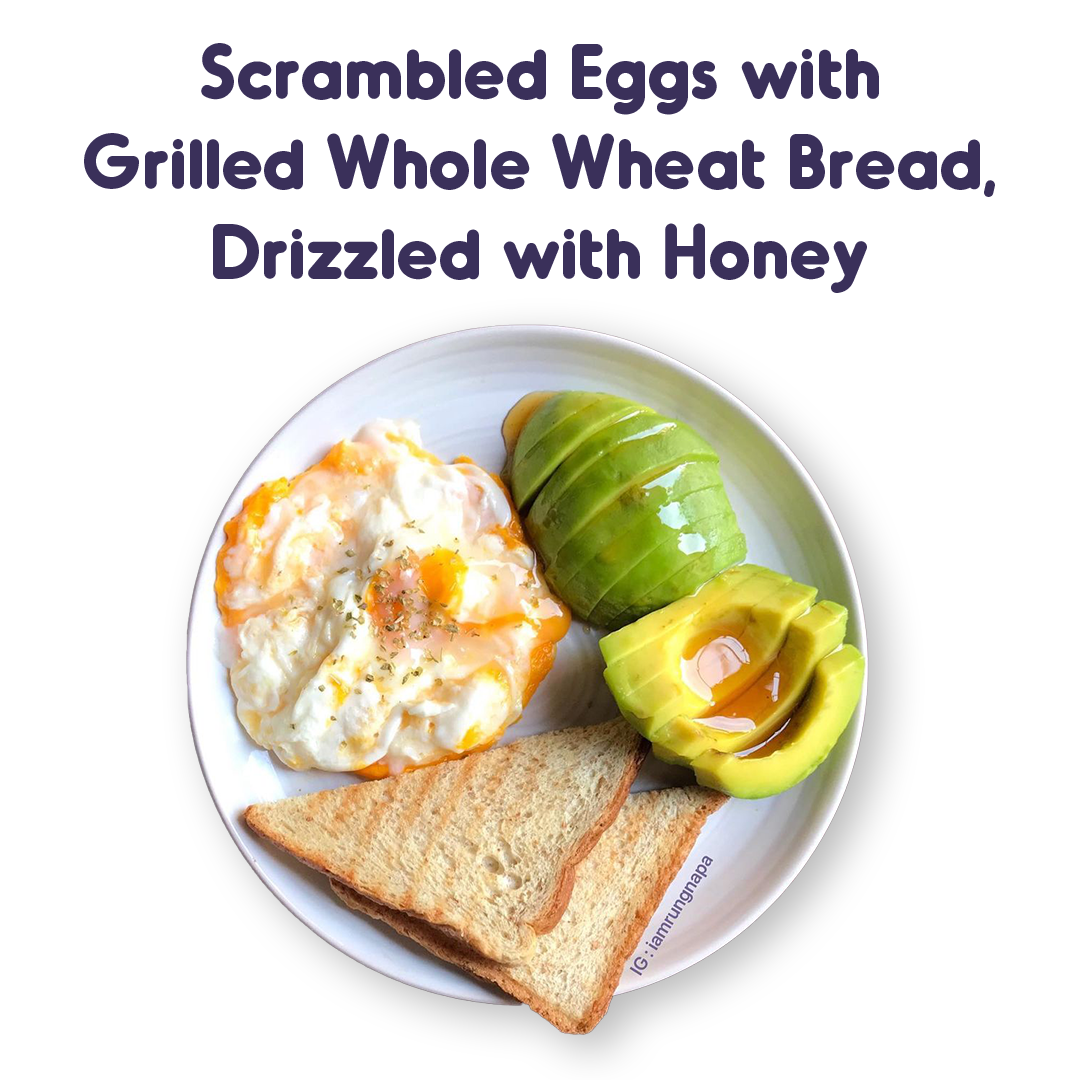
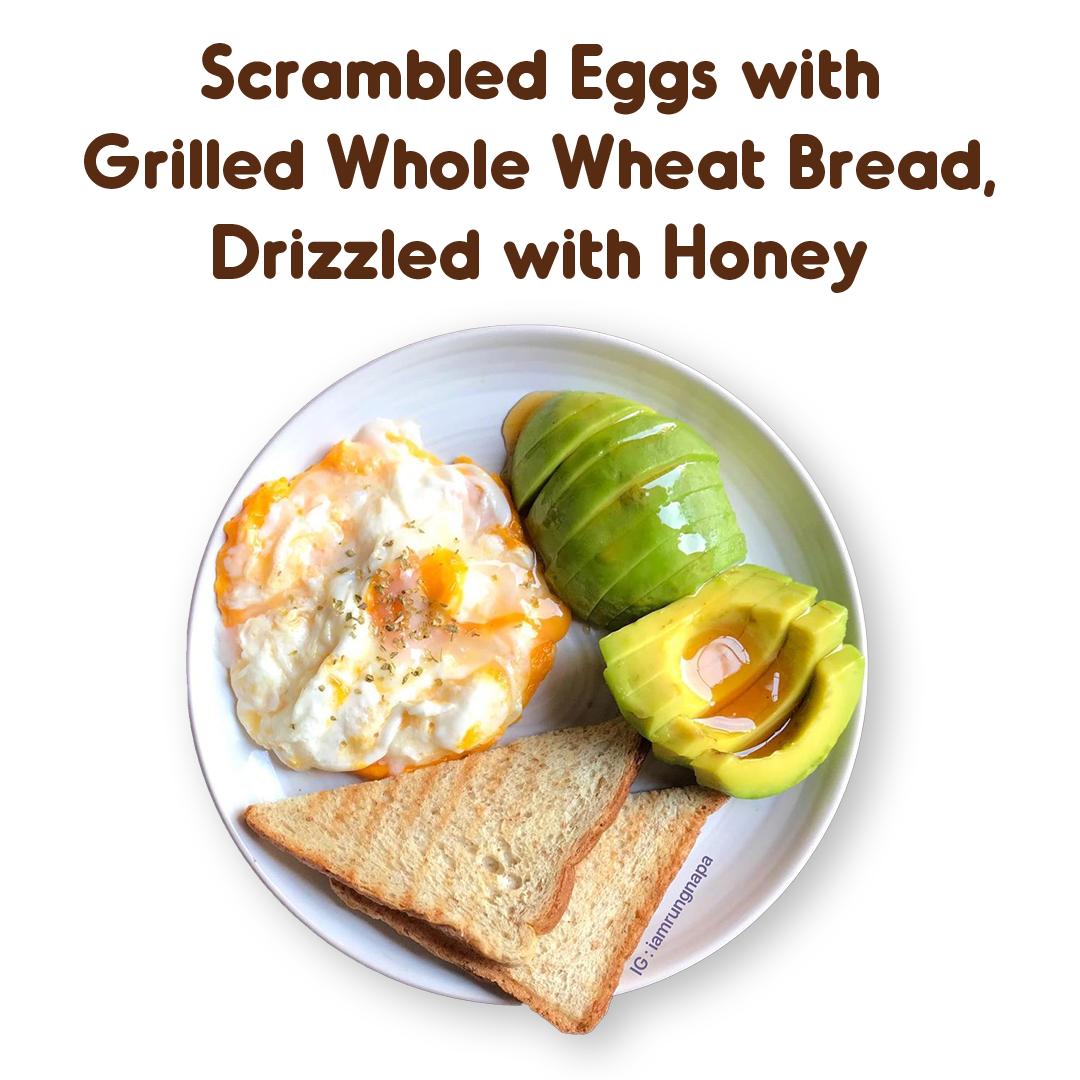
THANKSMAMA

Changed region(s): [[0.0611, 0.0306, 0.825, 0.275], [0.7333, 0.1222, 0.9167, 0.1833]]

diff --git a/home.html b/home.html
@@ -23,7 +23,7 @@
         <div class="mamafloat">
             <img src="img/mama_home.png" alt="mama_home" class="mamahome">
             <section id="home" class="task d-flex flex-column">
-                <div class="box1 d-flex flex-column">
+                <div class="box1 d-flex flex-column" id="rad">
                     <div class="greet">Yo username kiddo!</div>
                     <div class="ranq" id="quoteBox"></div>
                 </div>
@@ -33,7 +33,7 @@
                         <div class="row1 d-flex flex-column w-100">
                             <div class="column3 d-flex flex-row w-100">
                                 <div class="box-3-1 w-50 h-100 " id="box"></div>
-                                <div class="box-4-1 w-50 h-100" id="box">
+                                <div class="box-4-1 w-50 h-100">
                                     <div class="ranm"></div>
                                 </div>
                             </div>
@@ -49,13 +49,13 @@
             <section class="note d-flex flex-column" id="note">
                 <div class="notecolumn d-flex w-100 h-100">
                     <div class="cheerupbg d-flex">
-                        <div class="complete"></div>
+                        <div class="complete" id="rad"></div>
                         <img src="img/mamanote.png" alt="mamanote" class="mamanote">
-                        <div class="left"></div>
+                        <div class="left" id="rad"></div>
                     </div>
                         <div class="notecolumn2 d-flex flex-column w-100">
-                            <div class="quote">You are getting better everyday!</div>
-                            <div class="alltasks">All Tasks</div>
+                            <div class="quote" id="rad">You are getting better everyday!</div>
+                            <div class="alltasks" id="rad">All Tasks</div>
                         </div>
                 </div>
             </section>
@@ -67,23 +67,43 @@
                             <img src="img/income.png" alt="income" class="income">
                             <p>Income</p>
                         </div>
-                        <div class="inc"></div>
+                        <div class="inc" id="rad"></div>
                         <div class="out1 d-flex flex-row">
                             <img src="img/outcome.png" alt="outcome" class="outcome">
                             <p>Outcome</p>
                         </div>
-                        <div class="out"></div>
+                        <div class="out" id="rad"></div>
                         <div class="sav1 d-flex flex-row">
                             <img src="img/savings.png" alt="savings" class="savings">
                             <p>Savings</p>
                         </div>
-                        <div class="sav"></div>
+                        <div class="sav" id="rad"></div>
                     </div>
-                    <div class="edit"></div>
-                    <div class="cat"></div>
+                    <div class="edit d-flex flex-column" id="rad">
+                        <label for="income">Income</label>
+                        <input type="text" name="incomeprice" class="price" id="incomeprice" oninput="sanitizeInput(this)">
+                        <label for="outcome">Outcome</label>
+                        <input type="text" name="outcomeprice" class="price" id="outcomeprice" oninput="sanitizeInput(this)">
+                        <label for="savings">Savings</label>
+                        <input type="text" name="savingsprice" class="price" id="savingsprice" oninput="sanitizeInput(this)">
+                        <div class="category d-flex flex-column">
+                            <label for="savings" id="categ">Categories</label>
+                            <select id="catopt" name="catopt">
+                                <option value="gas">Goods & Service</option>
+                                <option value="food">Food</option>
+                                <option value="fare">Fare</option>
+                                <option value="edu">Education</option>
+                                <option value="other">Other</option>
+                            </select>
+                        </div>
+                        <div class="but">
+                            <button type="button" id="fibut">Done</button>
+                        </div>
+                    </div>
+                    <div class="cat" id="rad"></div>
                 </div>
                 <div class="downrow d-flex w-100">
-                    <div class="tea">Save money and money will save you.</div>
+                    <div class="tea" id="rad">Save money and money will save you.</div>
                     <a href="#finance2" class="his" id="box">
                         History
                     </a>
@@ -97,21 +117,21 @@
                         <img src="img/income.png" alt="income" class="income">
                         <p>Income</p>
                     </div>
-                    <div class="inch2"></div>
+                    <div class="inch2" id="rad"></div>
                 </div>
                 <div class="outh d-flex flex-column">
                     <div class="outh1 d-flex flex-row">
                         <img src="img/outcome.png" alt="outcome" class="outcome">
                         <p>Outcome</p>
                     </div>
-                    <div class="outh2"></div>
+                    <div class="outh2" id="rad"></div>
                 </div>
                 <div class="savh d-flex flex-column">
                     <div class="savh1 d-flex flex-row">
                         <img src="img/savings.png" alt="savings" class="savings">
                         <p>Savings</p>
                     </div>
-                    <div class="savh2"></div>
+                    <div class="savh2" id="rad"></div>
                 </div>
             </section> 
     <script>
@@ -130,7 +150,7 @@
         "Don’t you worry.",
         "Believe in what you prayed for.",
         "You are too smart to worry.",
-        "Everything will be find.",
+        "Everything will be fine.",
         "Every day is a second chance.",
         "Give some more time to yourself.",
         "Your patient is your power.",
@@ -194,7 +214,37 @@
         document.addEventListener('DOMContentLoaded', function () {
             updateRandomImage();
         });
-    </script>    
+        setInterval(updateRandomImage, 300000);
+
+        function sanitizeInput(input) {
+            let sanitizedValue = input.value.replace(/[^0-9.]/g, '');
+
+            if (sanitizedValue.trim() !== '' && !isNumeric(sanitizedValue)) {
+                alert('Please enter a valid numeric value.');
+                input.value = '';
+            } else {
+                input.value = sanitizedValue;
+            }
+        }
+        function isNumeric(value) {
+            return !isNaN(parseFloat(value)) && isFinite(value);
+        }
+        document.addEventListener('DOMContentLoaded', function () {
+        const outcomePriceInput = document.getElementById('outcomeprice');
+        const categLabel = document.getElementById('categ');
+        const catoptSelect = document.getElementById('catopt');
+
+        outcomePriceInput.addEventListener('input', function () {
+            if (outcomePriceInput.value.trim() !== '') {
+                categLabel.style.display = 'block';
+                catoptSelect.style.display = 'block';
+            } else {
+                categLabel.style.display = 'none';
+                catoptSelect.style.display = 'none';
+            }
+        });
+    });
+        </script>
     <script src="https://unpkg.com/aos@2.3.1/dist/aos.js">
         AOS.init();
     </script>

diff --git a/stylehome.css b/stylehome.css
@@ -1,9 +1,9 @@
 *{
     font-family: "Oduda Bold";
-    color: #3A305A;
+    color: #582b13;
     }
     body{
-        background: radial-gradient(circle, rgba(255, 202, 217, 0.799), #fff6ec48, #FFF6EC);
+        background: radial-gradient(circle, #ffbb96, #ffeee5, #FFF6EC);
         background-attachment: fixed;
         padding: 3vh;
         padding-top: 0;
@@ -26,7 +26,7 @@
     .navlist{
         width: 6rem;
         height: 95%;
-        background-color: #FDD;
+        background-color: #fbac81;
         border-radius: 3rem;
         padding: 3rem;
         margin-top: 3vh;
@@ -43,7 +43,9 @@
         transform: scale(1.2);
     }
     .box1{
-        background-color: #fff;
+        background: url(img/greet.png);
+        background-position: center;
+        background-size: cover;
         height: 40%;
         margin-bottom: 3vh;
         border-radius: 3rem;
@@ -52,6 +54,7 @@
         width: 100%;
         padding: 2vh;
         padding-left: 4vh;
+        color: #582b13;
     }
     .ranq{
         font-size: 5vh;
@@ -66,7 +69,7 @@
         padding: 2vh;
         padding-left: 4vh;
         text-decoration: none;
-        color: #3A305A;
+        color: #582b13;
     }
     .box-3-1{
         background-color: #fff;
@@ -79,10 +82,11 @@
     }
     .ranm{
         background-position: center;
-        background-size: 70%;
+        background-size: 65%;
         background-repeat: no-repeat;
         width: 100%;
         height: 100%;
+        transition: background-image .5s ease-in-out;
     }
     .column3{
         margin-bottom: 3vh;
@@ -97,7 +101,7 @@
         padding-left: 4vh;
         height: 100%;
         text-decoration: none;
-        color: #3A305A;
+        color: #582b13;
     }
     .row1{
         margin-right: 3vh;
@@ -280,8 +284,59 @@
         background-color: #fff;
         width: 36%;
         border-radius: 3rem;
-        height: 60%;
+        height: 100%;
         margin-right: 3vh;
+        font-size: 4vh;
+        padding: 4vh;
+    }
+    .edit select{
+        width: 97%;
+        height: 7vh;
+        padding: 2vh;
+        margin: 1vh;
+        border: 1px solid #d9d9d9;
+        border-radius: 1rem;
+        box-sizing: border-box;
+        font-size: 2.5vh;
+    }
+    .price{
+        width: 97%;
+        height: 7vh;
+        padding: 2vh;
+        border: 1px solid #d9d9d9;
+        border-radius: 1rem;
+        font-size: 2.5vh;
+        margin: 1vh;
+    }
+    .category{
+        text-align: center;
+    }
+    #categ{
+        text-align: start;
+        display: none;
+    }
+    #catopt{
+        display: none;
+    }
+    .but{
+        text-align: center;
+        margin-top: 2vh;
+        padding: 1vh;
+    }
+    #fibut{
+        background-color: #ffbb96;
+        width: 40%;
+        padding: 2vh;
+        border: transparent;
+        border-radius: 2rem;
+        font-size: 4vh;
+        cursor: pointer;
+        transition: background-color 0.3s ease-in-out, transform 0.2s ease-in-out;
+        border: none;
+    }
+    #fibut:hover{
+        color: #FFF6EC;
+        background-color: #582b13;
     }
     .cat{
         background-color: #fff;
@@ -307,7 +362,7 @@
         text-align: center;
         padding: 3vh;
         font-size: 4.5vh;
-        color: #3A305A;
+        color: #582b13;
         text-decoration: none;
     }
     .finance2{
@@ -381,9 +436,12 @@
         #box{
             border-radius: 2rem;
         }
+        #rad, .box-4-1{
+            border-radius: 2rem;
+        }
         body{
             flex-direction: column;
-            flex: 100%;  
+            flex: 100%;
         }
         .navicon{
             flex-direction: row;
@@ -550,6 +608,38 @@
             margin-bottom: 3vh;
             width: 100%;
             height: 35%;
+            font-size: 3vh;
+            padding: 2vh;
+        }
+        .edit select{
+            width: 97%;
+            height: 7vh;
+            padding: 2vh;
+            margin: 1vh;
+            border: 1px solid #d9d9d9;
+            border-radius: 1rem;
+            box-sizing: border-box;
+            font-size: 2.5vh;
+        }
+        .price{
+            width: 97%;
+            height: 7vh;
+            padding: 2vh;
+            border: 1px solid #d9d9d9;
+            border-radius: 1rem;
+            font-size: 2.5vh;
+            margin: 1vh;
+        }
+        .category{
+            text-align: center;
+        }
+        .but{
+            text-align: center;
+        }
+        #fibut{
+            padding: 0;
+            height: 7vh;
+            font-size: 3vh;
         }
         .cat{
             width: 100%;
